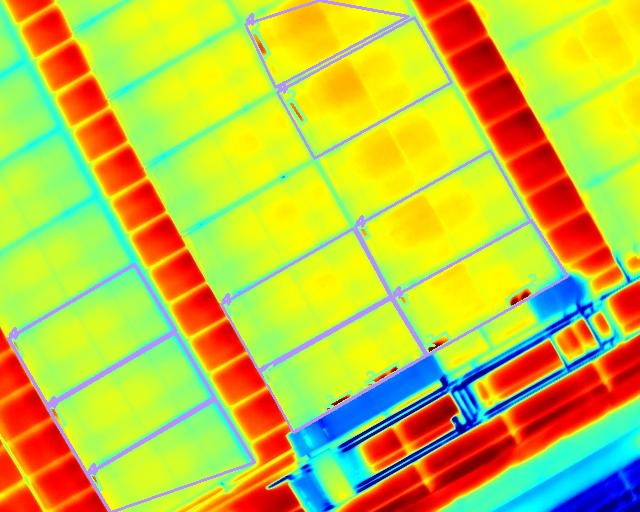
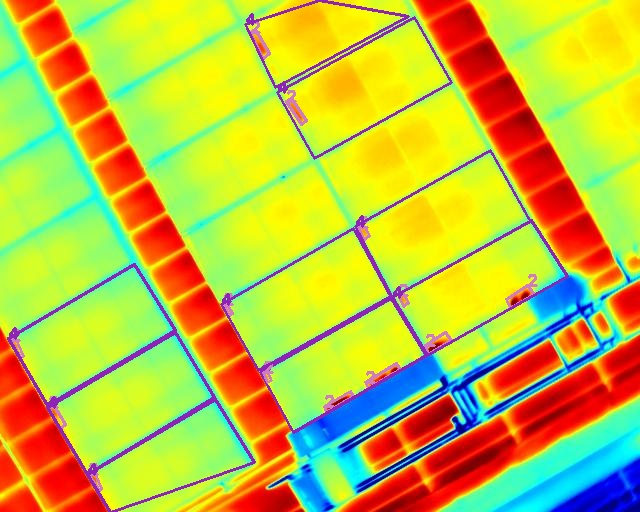
优化颜色函数，新增进度条

diff --git a/contourdrawer.py b/contourdrawer.py
@@ -5,6 +5,20 @@ import os
 import argparse
 import random
 
+def process_bar(current, total):
+    '''
+    打印进度条
+    
+    输入：
+    current：int，当前进度
+    total：int，总进度
+    
+    输出：无
+    '''
+    b = '=' * int(current / total * 50)
+    bar = f'绘制进度 |{b.ljust(50)}| ({current}/{total}) {current / total:.1%} | '
+    print(bar, end='\r', flush=True)
+
 def randomcolors(cnt):
     '''
     产生一组随机颜色
@@ -18,13 +32,12 @@ def randomcolors(cnt):
     random.seed(0)
     colors = []
     for i in range(cnt):
-        c = [144, 255, random.randint(0, 255)]
-        random.shuffle(c)
-        colors.append(tuple(c))
+        c = (random.randint(128,255), random.randint(0,127), random.randint(0,255))
+        colors.append(c)
     return colors
 
 
-def draw(fin, fout, seg, cat, showimg):
+def draw(fin, fout, seg, cat, colors, showimg):
     '''
     绘制框体
     
@@ -33,6 +46,7 @@ def draw(fin, fout, seg, cat, showimg):
     fout：str，输出图片路径
     seg：list，每个元素是一个4 * 2的numpy array，记录一个框体四个顶点的坐标
     cat：list，框体的类别
+    colors：dict，每种类别对应的颜色
     showimg：bool，是否在运行时展示绘制结果
     
     输出：无
@@ -40,12 +54,11 @@ def draw(fin, fout, seg, cat, showimg):
     if not(os.path.exists(fin)):
         raise FileNotFoundError(f'The file {fin} does not exist!')
     
-    colors = randomcolors(max(cat))
     image = cv2.imread(fin)    
     for i in range(len(seg)):
-        cv2.drawContours(image, [seg[i]], -1, colors[cat[i] - 1], 2)
+        cv2.drawContours(image, [seg[i]], -1, colors[cat[i]], 2)
         cv2.putText(image, str(cat[i]), (seg[i][0][0], seg[i][0][1]),
-                    cv2.FONT_HERSHEY_SIMPLEX, 0.5, colors[cat[i] - 1], 2)
+                    cv2.FONT_HERSHEY_SIMPLEX, 0.5, colors[cat[i]], 2)
     if showimg:
         cv2.imshow('image', image)
         cv2.waitKey(0)
@@ -64,18 +77,25 @@ def drawcontour(fjs, finput, foutput, showimg):
     
     输出：无
     '''
-    with open(fjs, 'r', encoding = 'utf-8') as file:  
+    with open(fjs, 'r', encoding='utf-8') as file:  
         json_str = file.read()
     js = json.loads(json_str)
     img = js['images']
     anno = js['annotations']
+    cate = js['categories']
     
-    if (len(img) == 0 or len(anno) == 0):
+    if (len(img) == 0 or len(anno) == 0 or len(cate) == 0):
         raise ValueError('The .json file is empty!')
     
     imgname = {}
     for i in img:
         imgname[i['id']] = i['file_name']
+    c = randomcolors(len(cate))
+    colors = {}
+    for i in range(len(cate)):
+        colors[cate[i]['id']] = c[i]
+        print(cate[i]['id'], ':', cate[i]['name'])
+    
     
     id0 = anno[0]['image_id']
     seg = []
@@ -92,13 +112,14 @@ def drawcontour(fjs, finput, foutput, showimg):
         cat.append(anno[i]['category_id'])
         if (i == len(anno) - 1 or anno[i + 1]['image_id'] != id0):
             try:
-                draw(os.path.join(finput, imgname[id0]), os.path.join(foutput, imgname[id0]), seg, cat, showimg) 
+                draw(os.path.join(finput, imgname[id0]), os.path.join(foutput, imgname[id0]), seg, cat, colors, showimg) 
             except KeyError:
                 print(f'The .json file does not contain the file_name of image_id {id0}!')
             if (i < len(anno) - 1):
                 id0 = anno[i + 1]['image_id']
                 seg = []
                 cat = []
+        process_bar(i + 1, len(anno))
         
 def run():
     '''
@@ -112,7 +133,7 @@ def run():
     parser.add_argument('-j', '--fjs', type=str, default='result.json')
     parser.add_argument('-i', '--finput', type=str, default=os.path.join(os.getcwd(), 'image'))
     parser.add_argument('-o', '--foutput', type=str, default=os.path.join(os.getcwd(), 'result'))
-    parser.add_argument('-s', '--showimg', action='store_true', default=False)
+    parser.add_argument('-s', '--showimg', action='store_true')
     args = parser.parse_args()
     fjs = args.fjs
     finput = args.finput
